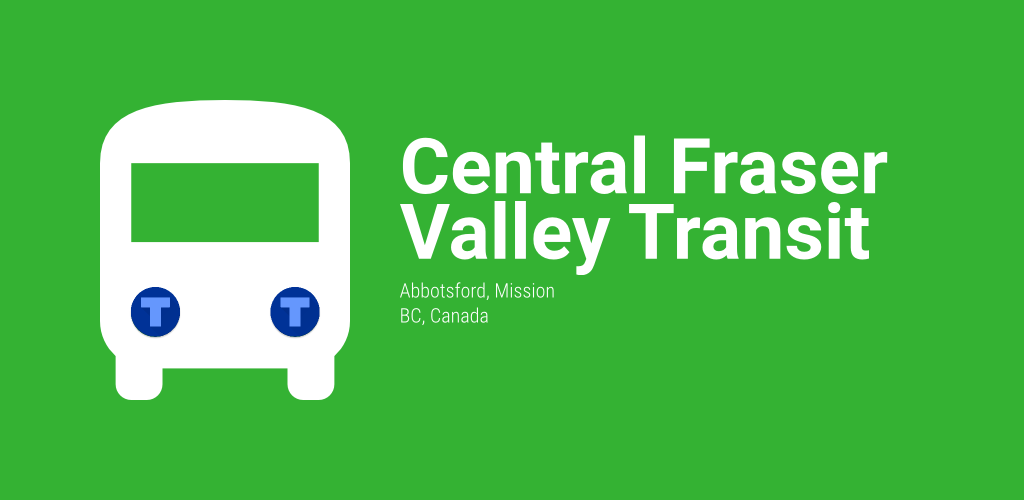
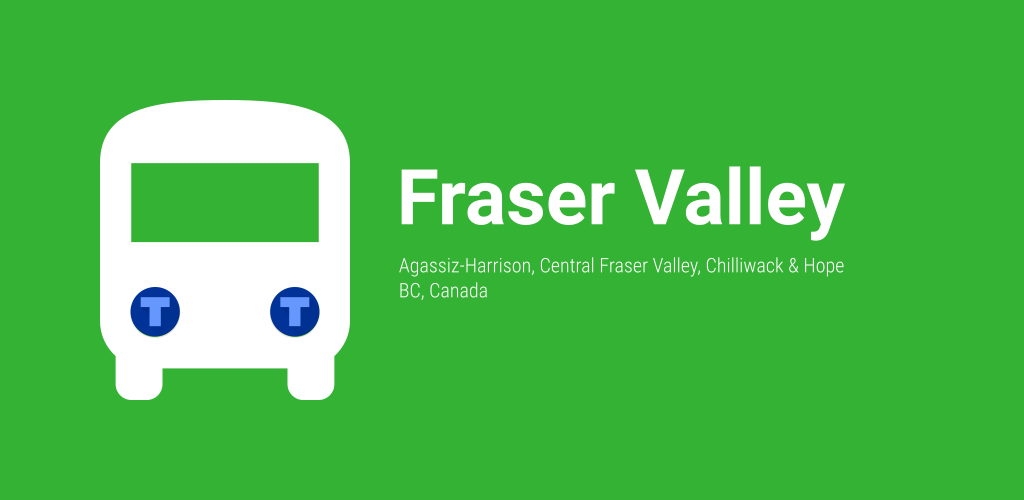
Store listing

Changed region(s): [[0.375, 0.27, 0.875, 0.66]]

diff --git a/README.md b/README.md
@@ -1,8 +1,9 @@
-# Central Fraser Valley Transit System (BC Transit) for [MonTransit](https://github.com/mtransitapps/mtransit-for-android)
+<!-- DO NOT EDIT: this file is generated by MTREADME.md.MT.sh -->
+# Fraser Valley region (BC Transit) buses for [MonTransit](https://github.com/mtransitapps/mtransit-for-android)
 
 <img width="25%" height="25%" src="app-android/src/main/play/listings/en-US/graphics/icon/1.png"/>
 
-## Download on Google Play
+## Download on the Play Store
 
 <a href="https://play.google.com/store/apps/details?id=org.mtransit.android.ca_central_fraser_valley_transit_system_bus"><img width="25%" height="25%" src="https://play.google.com/intl/en_us/badges/static/images/badges/en_badge_web_generic.png"/></a>
 
@@ -16,9 +17,7 @@
 
 ## Social
 
-* [Facebook](https://www.facebook.com/MonTransit)
-
-* [Twitter](https://twitter.com/montransit)
+[Facebook](https://www.facebook.com/MonTransit) | [Twitter/X](https://twitter.com/montransit) | [Instagram](https://www.instagram.com/mtransit.apps) | [Threads](https://www.threads.com/@mtransit.apps)
 
 ## BETA program
 